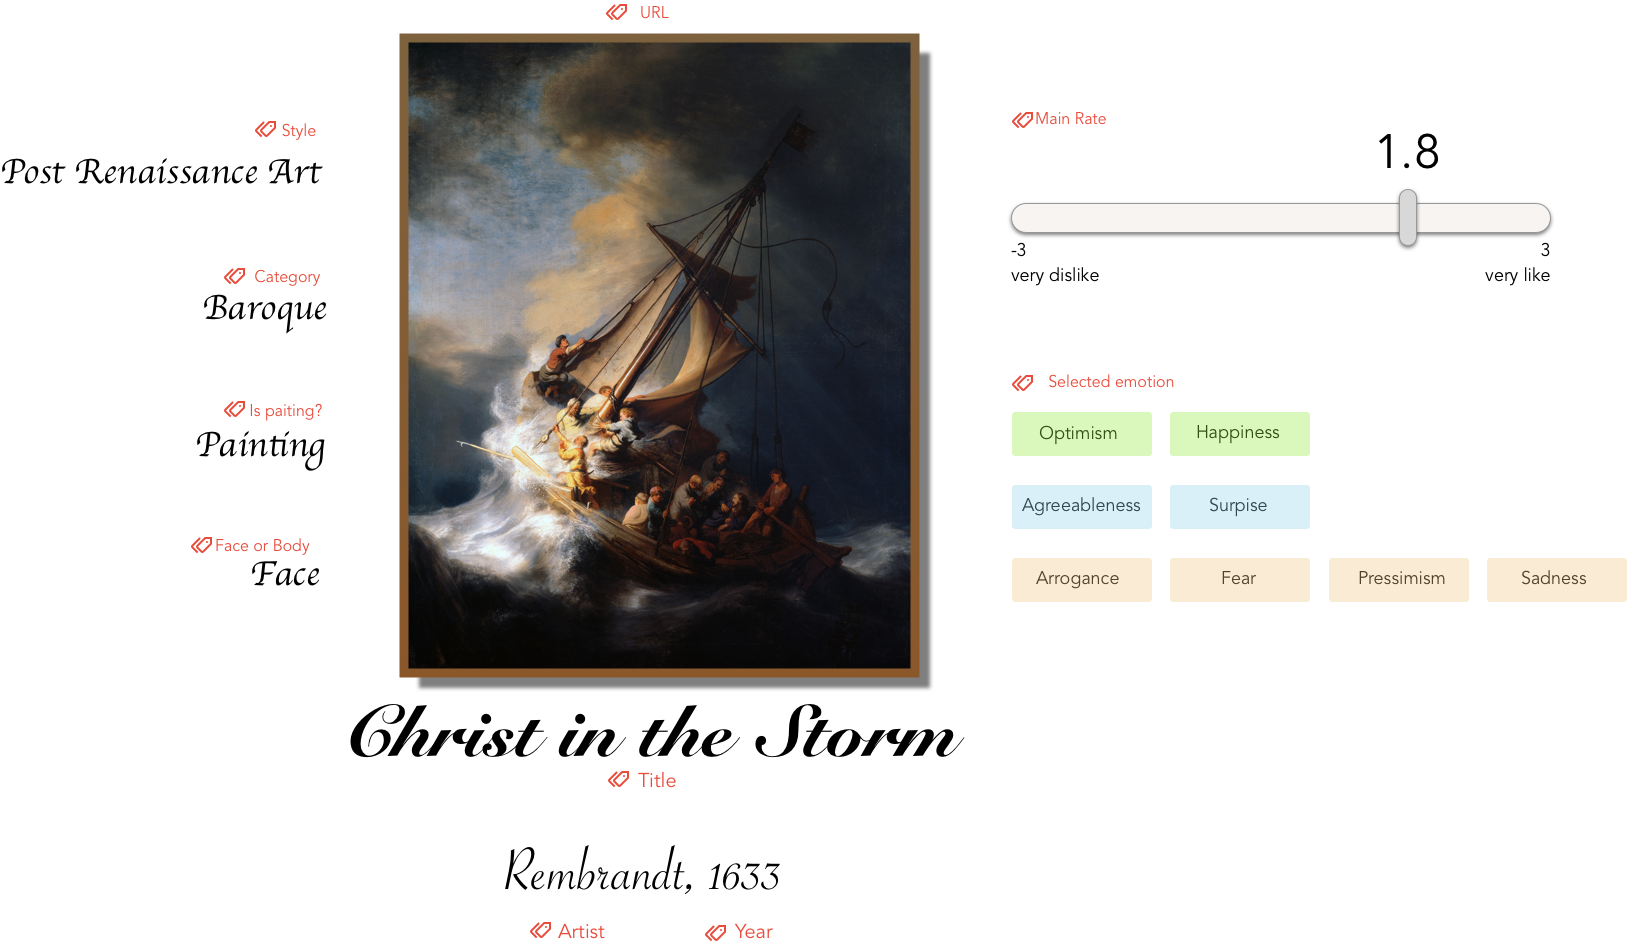
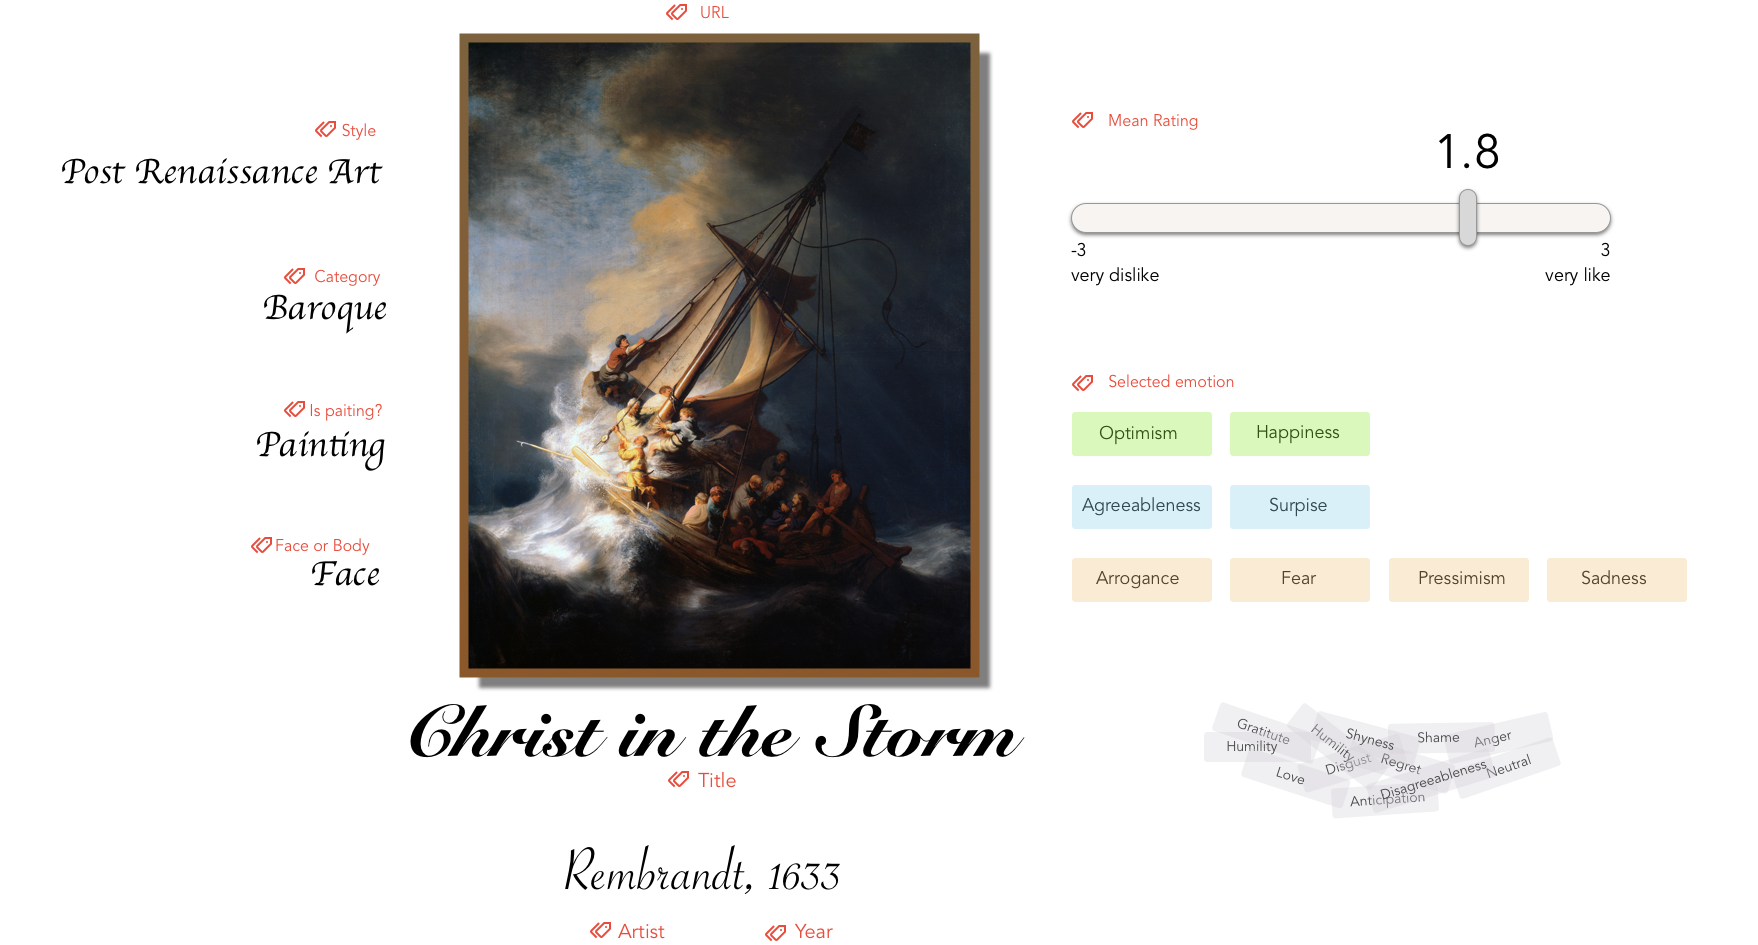
update

diff --git a/design.html b/design.html
@@ -39,7 +39,7 @@
     <section id = "datacollection" class = "container">
       <h2>Data Collection</h2>
       <div class = "row" style="margin-top: 40px;">
-        <p style="margin-left: 20px;">This work is based on WikiArt Emotions Dataset. The dataset integrated both basic and emotion information of more than 4000 artworks. For each artwork, the basic information attributes in the dataset included Title, Artist, Year, Style, Category, Painting or not, Face or Body, and related URL. Other attributes were related to emotions. An average number of the degree of like was regarded as the Main Rate. And for each emotion, there was an average number to record the proportion of selecting it for this artwork. </p>
+        <p style="margin-left: 20px;">This work is based on WikiArt Emotions Dataset. The dataset integrated both basic and emotion information of more than 4000 artworks. For each artwork, the basic information attributes in the dataset included Title, Artist, Year, Style, Category, Painting or not, Face or Body, and related URL. Other attributes were related to emotions. An average number of the degree of like was regarded as the Mean Rating. And for each emotion, there was an average number to record the proportion of selecting it for this artwork. </p>
         <div class = "col-sm-12">
           <img class ="portrait" src = "images/DataCollection.png">
         </div>
